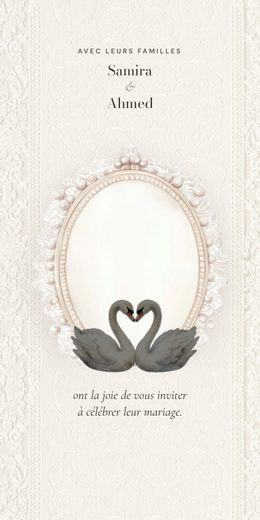
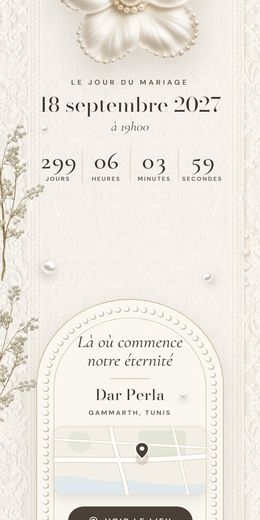
Perla : moins de vide entre les sections, fleur plus petite, prénoms en arabe retirés du formulaire (l'ouverture reprend les prénoms saisis)
Claude-Session: https://claude.ai/code/session_01JHbHXdBUaR2CiA6VEWaRD1

diff --git a/templates/perla.html b/templates/perla.html
@@ -133,7 +133,7 @@ html,body{height:100%;margin:0;overflow:hidden;background:#F3EDE3}
 <div class="scroller" id="scroller">
 
 <!-- 02 · THE SWAN LOVE STORY -->
-<section class="scene" aria-label="L’histoire des cygnes" style="z-index: 2">
+<section class="scene" aria-label="L’histoire des cygnes" style="z-index: 2; height: 670px">
 <div data-on="0" style="position: absolute; inset: 0">
 <span class="shim" style="left: 40px; top: 230px"></span>
 <span class="shim" style="left: 344px; top: 300px; animation-delay: -1s"></span>
@@ -162,15 +162,15 @@ html,body{height:100%;margin:0;overflow:hidden;background:#F3EDE3}
 </section>
 
 <!-- 03 · SAVE THE DATE -->
-<section class="scene" aria-label="La date">
+<section class="scene" aria-label="La date" style="height: 590px">
 <div data-on="1" style="position: absolute; inset: 0">
 <img loading="lazy" decoding="async" class="brL" data-img="812badc6" alt="" style="position: absolute; left: -40px; bottom: -40px; width: 150px; transform-origin: 0 100%">
 <img loading="lazy" decoding="async" class="brR" data-img="812badc6" alt="" style="position: absolute; right: -40px; bottom: -60px; width: 140px; scale: -1 1; transform-origin: 100% 100%">
-<div style="position: absolute; left: 50px; top: 72px; width: 290px; height: 304px">
-<img loading="lazy" decoding="async" class="bloom" data-img="8539492c" alt="Fleur de satin au cœur de perle" style="display: block; width: 290px; filter: drop-shadow(0 18px 24px rgba(120,100,80,0.22))">
+<div style="position: absolute; left: 80px; top: 40px; width: 230px; height: 241px">
+<img loading="lazy" decoding="async" class="bloom" data-img="8539492c" alt="Fleur de satin au cœur de perle" style="display: block; width: 230px; filter: drop-shadow(0 18px 24px rgba(120,100,80,0.22))">
 </div>
 </div>
-<div class="rv" data-on="1" style="position: absolute; left: 0; right: 0; top: 404px; display: flex; flex-direction: column; align-items: center; text-align: center">
+<div class="rv" data-on="1" style="position: absolute; left: 0; right: 0; top: 300px; display: flex; flex-direction: column; align-items: center; text-align: center">
 <p class="dm" style="margin: 0; font-size: 11px; font-weight: 600; letter-spacing: 0.32em; color: #5e544a">LE JOUR DU MARIAGE</p>
 <p class="bod" style="margin: 12px 0 0; font-size: 32px; line-height: 1.1; color: #3a322b"><span data-c="dateLabel"></span></p>
 <p class="cor" style="margin: 6px 0 0; font-size: 21px; font-style: italic; color: #5e544a"><span data-c="timeLabel"></span></p>
@@ -196,11 +196,11 @@ html,body{height:100%;margin:0;overflow:hidden;background:#F3EDE3}
 </section>
 
 <!-- 04 · THE VENUE -->
-<section class="scene" aria-label="Le lieu">
+<section class="scene" aria-label="Le lieu" style="height: 580px">
 <div data-on="2" style="position: absolute; inset: 0">
-<img loading="lazy" decoding="async" class="brL" data-img="812badc6" alt="" style="position: absolute; left: -46px; top: 120px; width: 150px; rotate: 18deg; transform-origin: 0 50%">
-<img loading="lazy" decoding="async" class="brR" data-img="812badc6" alt="" style="position: absolute; right: -46px; top: 300px; width: 150px; scale: -1 1; rotate: -18deg; transform-origin: 100% 50%">
-<div class="zf" style="position: absolute; left: 45px; top: 150px; width: 300px; height: 470px">
+<img loading="lazy" decoding="async" class="brL" data-img="812badc6" alt="" style="position: absolute; left: -46px; top: 30px; width: 150px; rotate: 18deg; transform-origin: 0 50%">
+<img loading="lazy" decoding="async" class="brR" data-img="812badc6" alt="" style="position: absolute; right: -46px; top: 210px; width: 150px; scale: -1 1; rotate: -18deg; transform-origin: 100% 50%">
+<div class="zf" style="position: absolute; left: 45px; top: 60px; width: 300px; height: 470px">
 <svg aria-hidden="true" width="300" height="470" viewBox="0 0 300 470" style="position: absolute; inset: 0; filter: drop-shadow(0 14px 22px rgba(120,100,80,0.16))">
 <path d="M10 470V150A140 140 0 0 1 290 150V470Z" fill="rgba(251,248,242,0.92)"></path>
 <path d="M10 470V150A140 140 0 0 1 290 150V470Z" fill="none" stroke="#c9b796" stroke-width="1.2"></path>
@@ -210,7 +210,7 @@ html,body{height:100%;margin:0;overflow:hidden;background:#F3EDE3}
 </svg>
 </div>
 </div>
-<div class="rv" data-on="2" style="position: absolute; left: 66px; right: 66px; top: 214px; display: flex; flex-direction: column; align-items: center; text-align: center">
+<div class="rv" data-on="2" style="position: absolute; left: 66px; right: 66px; top: 124px; display: flex; flex-direction: column; align-items: center; text-align: center">
 <p class="cor" style="margin: 0; font-size: 27px; font-style: italic; line-height: 1.12; color: #3a322b">Là où commence<br>notre éternité</p>
 <span aria-hidden="true" style="width: 60px; height: 1px; margin: 14px 0 12px; background: #c9b796"></span>
 <p class="bod" style="margin: 0; font-size: 24px; line-height: 1.15; color: #3a322b"><span data-c="venueName"></span></p>
@@ -312,7 +312,7 @@ Revoir · FARHA — Invitations Digitales
 <p class="ami ci" style="margin: 0; font-size: 19px; line-height: 1.6; color: #5e544a; animation-delay: .6s">تتشرف</p>
 <p class="ami ci" style="margin: 0; font-size: 21px; line-height: 1.6; color: #4a4038; animation-delay: .85s">بدعوتكم لحضور</p>
 <p class="ami ci" style="margin: 0; font-size: 23px; font-weight: 700; line-height: 1.6; color: #4a4038; animation-delay: 1.1s">حفل زفاف</p>
-<h1 class="ruq ci" style="margin: 6px 0 0; font-size: 54px; font-weight: 700; line-height: 1.45; color: #5d6450; animation-delay: 1.4s"><span data-c="groomAr"></span> و <span data-c="brideAr"></span></h1>
+<h1 class="ruq ci" id="introNames" style="margin: 6px 0 0; max-width: 100%; white-space: nowrap; font-size: 54px; font-weight: 700; line-height: 1.45; color: #5d6450; animation-delay: 1.4s"><bdi data-c="groomAr"></bdi> و <bdi data-c="brideAr"></bdi></h1>
 <span class="ci" aria-hidden="true" style="width: 54px; height: 1px; margin: 8px 0 12px; background: #c9b796; animation-delay: 1.8s"></span>
 <p class="ami ci" style="margin: 0; font-size: 17px; line-height: 1.85; color: #4a4038; animation-delay: 2s">لفرحتنا اليوم ندعوكم بالطيب<br>والورد لقلبكم، وبالحب والخير<br>نشكر تهانيكم</p>
 <button type="button" class="btn btnPearl ci" id="openIntro" style="margin-top: 18px; font-family: 'Amiri', serif; font-size: 18px; font-weight: 700; letter-spacing: 0; text-transform: none; animation-delay: 2.5s">افتحوا الدعوة</button>
@@ -335,8 +335,6 @@ Revoir · FARHA — Invitations Digitales
 const CONFIG = {
   bride: "Samira",
   groom: "Ahmed",
-  brideAr: "سميرة",
-  groomAr: "احمد",
   date: "2027-09-18T19:00:00",
   venue: "Dar Perla",
   address: "Gammarth, Tunis",
@@ -345,7 +343,7 @@ const CONFIG = {
 };
 (function () {
   'use strict';
-  var C = CONFIG, O = {"fields": [["bride", "bride"], ["groom", "groom"], ["brideAr", "brideAr"], ["groomAr", "groomAr"], ["dateLabel", "@date"], ["timeLabel", "@time"], ["venueName", "venue"], ["location", "address"]], "letters": [["bride", "bride", 1.2], ["groom", "groom", 1.9]], "days": null, "months": ["janvier", "février", "mars", "avril", "mai", "juin", "juillet", "août", "septembre", "octobre", "novembre", "décembre"], "timePrefix": "à ", "timeSep": "h", "px": {}, "openPhase": "open", "phase2": "part", "t1": 950, "t2": 2700, "btn": "Envoyer votre message", "sending": "Envoi…", "thanks": "Vos mots sont bien parvenus à {bride} & {groom}, {name}.", "error": "Votre message n’a pas pu être envoyé. Vérifiez votre connexion et réessayez."}, IMG = {"0262534f": "/media/x/bdfec26e7f1a1c.webp", "2c346a23": "/media/x/b9acbd57747da8.webp", "3054dc37": "/media/x/6ddd33933f03c7.webp", "616475a4": "/media/x/f1c3793472f0aa.webp", "812badc6": "/media/x/3aafaea0dbf1b3.webp", "8440d2fc": "/media/x/171a662b700252.webp", "8539492c": "/media/x/1117c1155996c8.webp", "9da301aa": "/media/x/d008b531a347b5.webp", "b2f6e336": "/media/x/34bd1f3a0c6641.webp", "c73acf11": "/media/x/e555dd6e8769d6.webp", "d9722d5f": "/media/x/e1053a6e2bc08f.webp", "e7575bef": "/media/x/6d1391f3f0de97.webp"}, H = 844;
+  var C = CONFIG, O = {"fields": [["bride", "bride"], ["groom", "groom"], ["brideAr", "bride"], ["groomAr", "groom"], ["dateLabel", "@date"], ["timeLabel", "@time"], ["venueName", "venue"], ["location", "address"]], "letters": [["bride", "bride", 1.2], ["groom", "groom", 1.9]], "days": null, "months": ["janvier", "février", "mars", "avril", "mai", "juin", "juillet", "août", "septembre", "octobre", "novembre", "décembre"], "timePrefix": "à ", "timeSep": "h", "px": {}, "openPhase": "open", "phase2": "part", "t1": 950, "t2": 2700, "btn": "Envoyer votre message", "sending": "Envoi…", "thanks": "Vos mots sont bien parvenus à {bride} & {groom}, {name}.", "error": "Votre message n’a pas pu être envoyé. Vérifiez votre connexion et réessayez."}, IMG = {"0262534f": "/media/x/bdfec26e7f1a1c.webp", "2c346a23": "/media/x/b9acbd57747da8.webp", "3054dc37": "/media/x/6ddd33933f03c7.webp", "616475a4": "/media/x/f1c3793472f0aa.webp", "812badc6": "/media/x/3aafaea0dbf1b3.webp", "8440d2fc": "/media/x/171a662b700252.webp", "8539492c": "/media/x/1117c1155996c8.webp", "9da301aa": "/media/x/d008b531a347b5.webp", "b2f6e336": "/media/x/34bd1f3a0c6641.webp", "c73acf11": "/media/x/e555dd6e8769d6.webp", "d9722d5f": "/media/x/e1053a6e2bc08f.webp", "e7575bef": "/media/x/6d1391f3f0de97.webp"}, H = 844;
   var $ = function (s) { return document.querySelector(s); }, all = function (s) { return [].slice.call(document.querySelectorAll(s)); };
   all('img[data-img]').forEach(function (i) { i.src = IMG[i.getAttribute('data-img')]; });
   var pad = function (n) { return (n < 10 ? '0' : '') + n; };
@@ -366,6 +364,11 @@ const CONFIG = {
     Array.from(String(C[L[1]] || '')).forEach(function (ch, i) { var s = document.createElement('span'); s.className = 'lt'; s.style.transitionDelay = (L[2] + i * 0.06).toFixed(2) + 's'; s.textContent = ch === ' ' ? '\u00a0' : ch; box.appendChild(s); });
   });
   all('[data-c]').forEach(function (el) { var v = V[el.getAttribute('data-c')]; if (v != null) el.textContent = v; });
+  // prénoms de l'ouverture (ceux du formulaire) : sur une ligne, taille réduite si besoin
+  function fitIntroNames() { var h = $('#introNames'); if (!h) return; var w = h.parentElement.clientWidth, lat = !/[\u0600-\u06ff]/.test(h.textContent), fs = lat ? 46 : 54;
+    if (lat) h.style.setProperty('font-family', "'Amiri', serif", 'important'); h.style.fontSize = fs + 'px';
+    while (fs > 22 && h.scrollWidth > w) { fs -= 2; h.style.fontSize = fs + 'px'; } }
+  fitIntroNames(); if (document.fonts && document.fonts.ready) document.fonts.ready.then(fitIntroNames);
   var q = C.mapQuery || [C.venue, C.address].filter(Boolean).join(', ');
   var maps = /^https:\/\//.test(C.mapLink || '') ? C.mapLink : 'https://www.google.com/maps/search/?api=1&query=' + encodeURIComponent(q);
   all('[data-maps]').forEach(function (a) { a.href = maps; });
@@ -380,14 +383,15 @@ const CONFIG = {
   // scènes : parallaxe et apparitions
   var rm = false; try { rm = matchMedia('(prefers-reduced-motion: reduce)').matches; } catch (e) {}
   if (rm) root.classList.add('rm');
+  var scenes = all('.scene'), T = function (j) { var e = scenes[Math.max(0, Math.min(scenes.length - 1, j))]; return e ? e.offsetTop : j * H; };
   var scroller = $('#scroller'), px = all('[data-px]'), ons = all('[data-on]'), dots = all('#dots .dot'), sy = 0, maxSy = 0, entered = false, raf = 0;
   function render() {
-    px.forEach(function (el) { var a = el.getAttribute('data-px').split(' '), local = rm ? 0 : sy - (+a[0]) * H; el.style.translate = '0 ' + (local * O.px[a[1]]).toFixed(1) + 'px'; });
-    ons.forEach(function (el) { var j = +el.getAttribute('data-on'); el.classList.toggle('on', entered && maxSy >= j * H - 460); });
-    var active = Math.round(sy / H); dots.forEach(function (b, k) { b.classList.toggle('act', k === active); });
+    px.forEach(function (el) { var a = el.getAttribute('data-px').split(' '), local = rm ? 0 : sy - T(+a[0]); el.style.translate = '0 ' + (local * O.px[a[1]]).toFixed(1) + 'px'; });
+    ons.forEach(function (el) { var j = +el.getAttribute('data-on'); el.classList.toggle('on', entered && maxSy >= T(j) - 460); });
+    var active = 0; scenes.forEach(function (e, k) { if (sy + 200 >= e.offsetTop) active = k; }); dots.forEach(function (b, k) { b.classList.toggle('act', k === active); });
   }
   scroller.addEventListener('scroll', function () { if (raf) return; raf = requestAnimationFrame(function () { raf = 0; sy = scroller.scrollTop; maxSy = Math.max(maxSy, sy); render(); }); }, { passive: true });
-  dots.forEach(function (b) { b.addEventListener('click', function () { scroller.scrollTo({ top: (+b.getAttribute('data-go')) * H, behavior: rm ? 'auto' : 'smooth' }); }); });
+  dots.forEach(function (b) { b.addEventListener('click', function () { scroller.scrollTo({ top: T(+b.getAttribute('data-go')), behavior: rm ? 'auto' : 'smooth' }); }); });
   // ouverture
   var intro = $('#intro'), phase = 'closed', timers = [], win = $('#win');
   $('#openIntro').addEventListener('click', function () {
